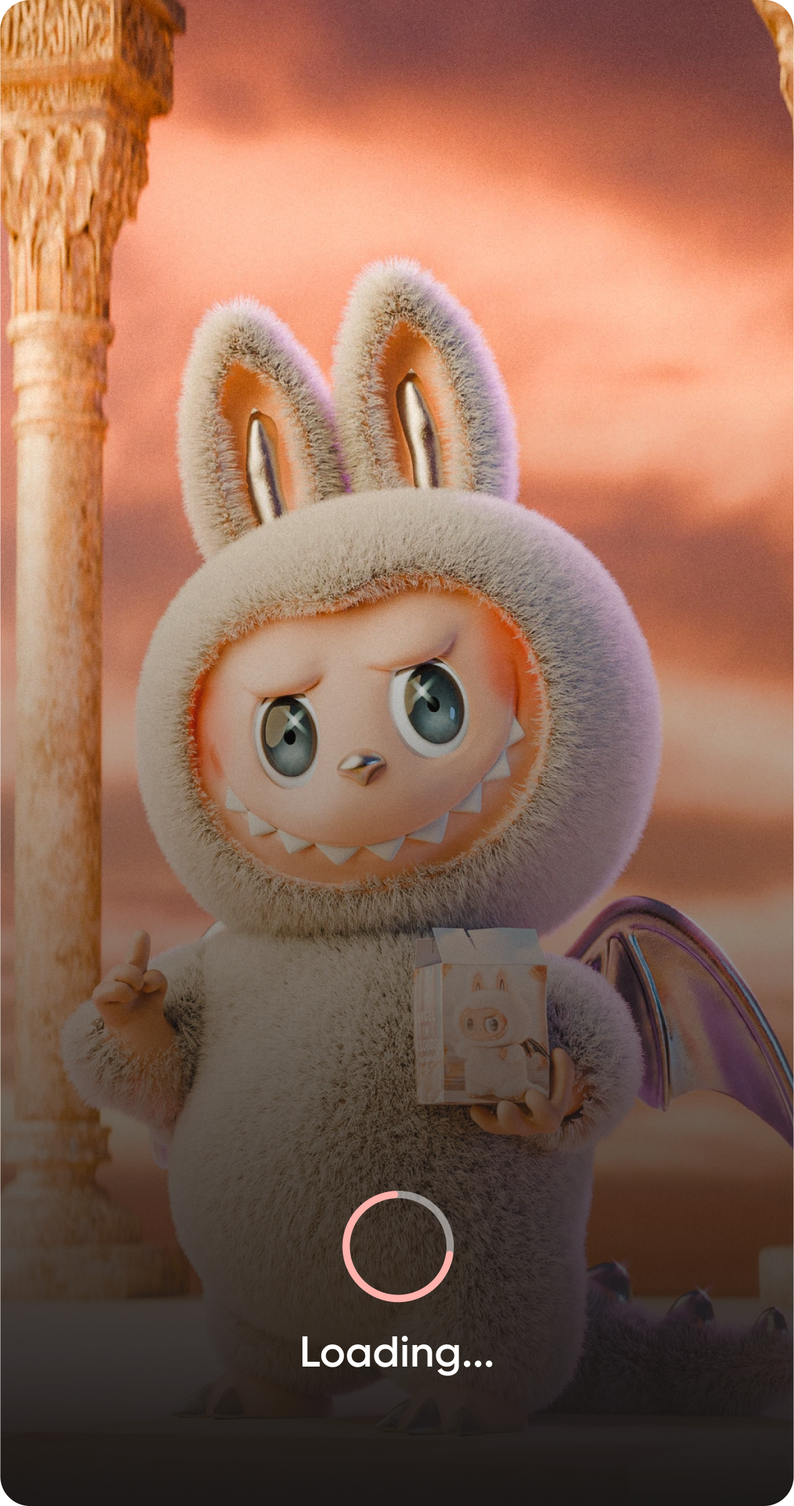
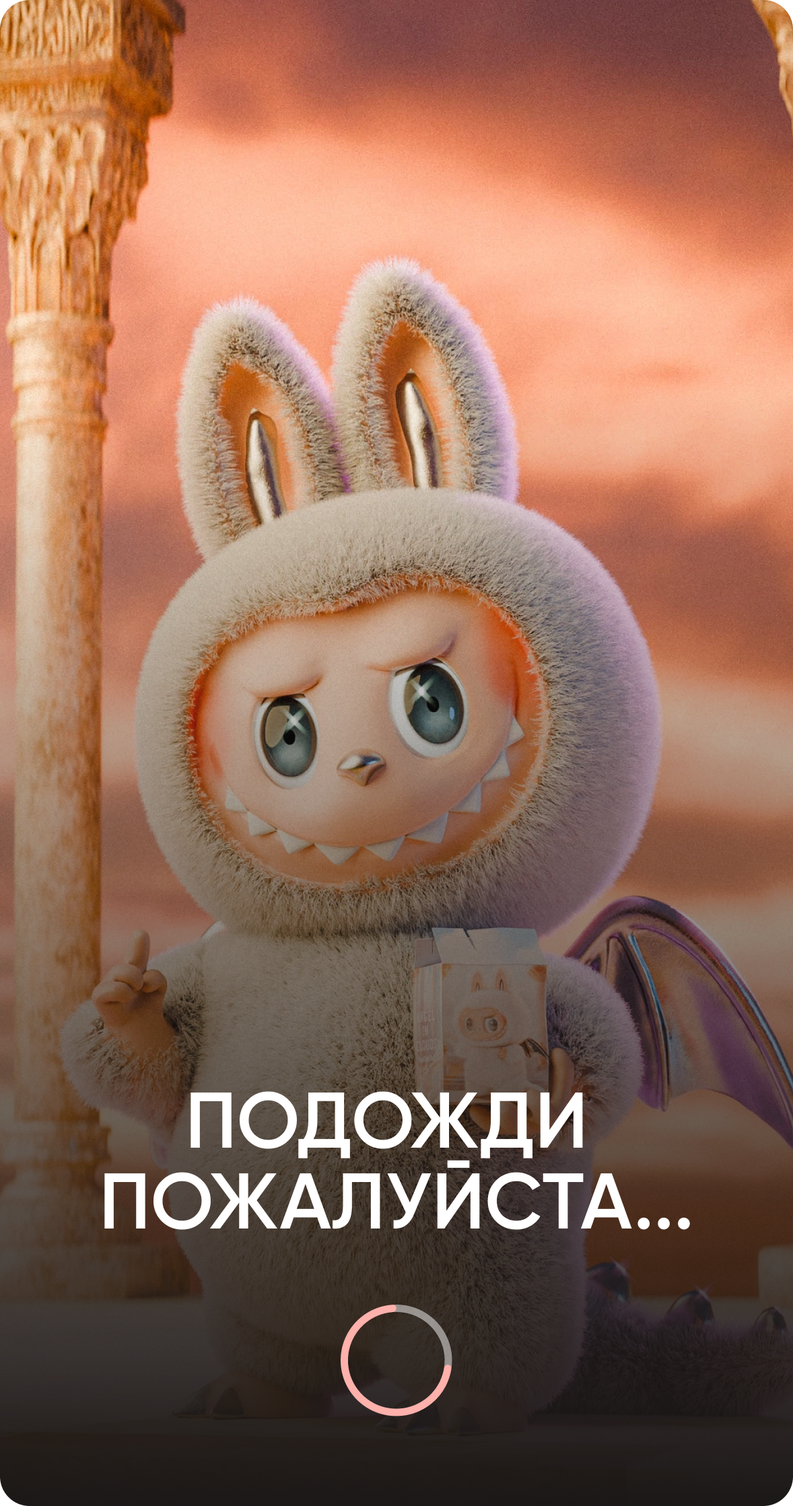
update

Changed region(s): [[0.1222, 0.7097, 0.8862, 0.9566]]

diff --git a/assets/js/script.js b/assets/js/script.js
@@ -13,6 +13,9 @@ class LabubuGame {
     }
 
     async init() {
+        // Показываем лоадер
+        const loader = document.querySelector('.load_bg');
+        if (loader) loader.style.display = '';
         // Инициализация GameDatabase
         this.db = new window.GameDatabase();
         // Ждем инициализации supabase
@@ -22,7 +25,9 @@ class LabubuGame {
         this.setupEventListeners();
         this.updateUI();
         // Получаем данные пользователя через Telegram WebApp API
-        this.loadTelegramUser();
+        await this.loadTelegramUser();
+        // Скрываем лоадер после полной загрузки
+        if (loader) loader.style.display = 'none';
     }
 
     async loadTelegramUser(retry = 0) {

diff --git a/index.html b/index.html
@@ -237,7 +237,7 @@
 					</svg>	
 				</div>
 			</div>
-			<img class="load_bg" src="assets/images/load_bg.png" alt="" style="display: none;">
+			<img class="load_bg" src="assets/images/load_bg.png" alt="" style="display: ;">
 		</div>
 		
 		<script src="assets/js/script.js"></script>
